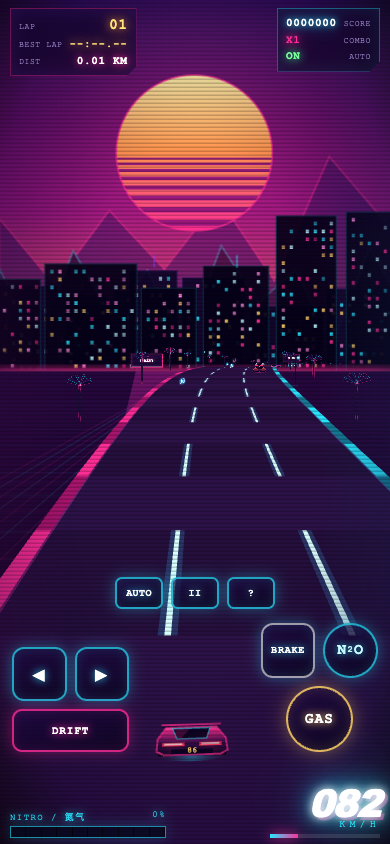
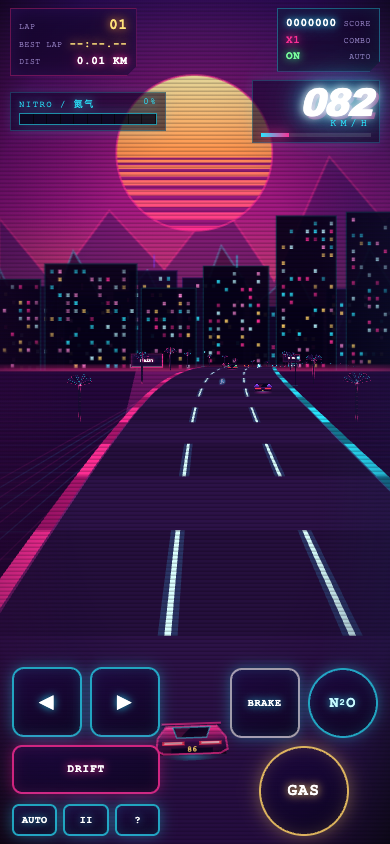
Move mobile gauges to the top and enlarge bottom-docked touch controls

diff --git a/css/style.css b/css/style.css
@@ -124,21 +124,25 @@ button{font-family:inherit;cursor:pointer}
 
 /* ---------- 触屏按钮：左右分区 + 每组两列网格，窄屏不会互相压叠 ---------- */
 #touch{position:absolute;inset:0;z-index:35;pointer-events:none;display:none;
-  --tb:clamp(46px,14vw,64px);        /* 普通键边长，随屏宽缩放 */
-  --tg:clamp(58px,17vw,82px);        /* GAS 大圆直径 */
+  --tb:clamp(58px,18vw,78px);       /* 驾驶键边长 */
+  --tg:clamp(80px,23vw,104px);      /* GAS 大圆直径 */
+  --tmini:32px;                     /* 功能键行高 */
   --tgap:8px;
-  --tdock:calc(92px + env(safe-area-inset-bottom, 0px));
+  --tpad:calc(8px + env(safe-area-inset-bottom, 0px)); /* 贴底距离 */
 }
 #cabinet.touch-on #touch{display:block}
 .touch-left,.touch-right,.touch-mini{position:absolute;pointer-events:none}
 .touch-left,.touch-right{
   display:grid;grid-template-columns:repeat(2,var(--tb));gap:var(--tgap);
-  align-items:center;justify-items:center;bottom:var(--tdock);
+  align-items:center;justify-items:center;
 }
-.touch-left{left:calc(12px + env(safe-area-inset-left, 0px))}
-.touch-right{right:calc(12px + env(safe-area-inset-right, 0px))}
-.touch-mini{left:50%;transform:translateX(-50%);top:auto;display:flex;gap:8px;
-  bottom:calc(var(--tdock) + var(--tb) + var(--tgap) + var(--tg) + 14px)}
+/* 左侧：转向 + DRIFT，下方一行是 AUTO/II/?；右侧：BRAKE/N2O + GAS 一直贴到屏幕底 */
+.touch-left{left:calc(12px + env(safe-area-inset-left, 0px));
+  bottom:calc(var(--tpad) + var(--tmini) + 10px)}
+.touch-right{right:calc(12px + env(safe-area-inset-right, 0px));bottom:var(--tpad)}
+.touch-mini{top:auto;transform:none;left:calc(12px + env(safe-area-inset-left, 0px));
+  bottom:var(--tpad);display:grid;grid-template-columns:repeat(3,1fr);gap:6px;
+  width:calc(var(--tb)*2 + var(--tgap))}
 .tbtn{
   pointer-events:auto;touch-action:none;color:#fff;font-weight:bold;font-size:13px;letter-spacing:.08em;
   border:2px solid rgba(40,231,255,.7);border-radius:12px;
@@ -152,19 +156,19 @@ button{font-family:inherit;cursor:pointer}
 .tbtn.held,.tbtn:active{transform:scale(.93);background:rgba(255,45,149,.42);
   box-shadow:0 0 22px var(--mag),inset 0 0 16px rgba(255,45,149,.5)}
 /* 触屏实际尺寸：统一按 --tb 走，跨列键例外 */
-.touch-left .tbtn,.touch-right .tbtn{width:var(--tb);height:var(--tb);font-size:12px}
-.touch-left .tbtn-sm{font-size:20px}
-.touch-left .tbtn-drift{grid-column:1/-1;width:100%;height:calc(var(--tb)*.78);
+.touch-left .tbtn,.touch-right .tbtn{width:var(--tb);height:var(--tb);font-size:13px}
+.touch-left .tbtn-sm{font-size:24px}
+.touch-left .tbtn-drift{grid-column:1/-1;width:100%;height:calc(var(--tb)*.7);
   font-size:11px;border-radius:10px;border-color:rgba(255,45,149,.8);
   box-shadow:0 0 14px rgba(255,45,149,.35),inset 0 0 12px rgba(255,45,149,.14);
   text-shadow:0 0 8px var(--mag)}
 .touch-right .tbtn-nitro{border-radius:50%;font-size:15px;color:#c9fbff}
 .touch-right .tbtn-brake{font-size:10px;border-color:rgba(255,255,255,.6)}
 .touch-right .tbtn-gas{grid-column:1/-1;width:var(--tg);height:var(--tg);
-  border-radius:50%;font-size:14px;border-color:rgba(255,209,102,.85);
+  border-radius:50%;font-size:16px;border-color:rgba(255,209,102,.85);
   box-shadow:0 0 18px rgba(255,209,102,.38),inset 0 0 14px rgba(255,209,102,.16);
   text-shadow:0 0 8px #ffd166}
-.tbtn-mini{width:48px;height:32px;font-size:10px;border-radius:7px;letter-spacing:.04em}
+.tbtn-mini{width:100%;height:var(--tmini);font-size:10px;border-radius:7px;letter-spacing:.04em}
 sub{font-size:.6em}
 
 /* ---------- 覆盖面板 ---------- */
@@ -252,8 +256,11 @@ sub{font-size:.6em}
   .start-foot{display:none}
   .combo-toast{font-size:24px}
 }
-/* 触屏 / 窄屏 / 矮屏：压缩底部 HUD，给虚拟按键让出空间 */
+/* 触屏 / 窄屏 / 矮屏：氮气条与速度表整体上移到顶部，屏幕底部整块留给驾驶按键 */
 @media (pointer:coarse), (max-width:760px), (max-height:480px){
+  #hud{padding:calc(8px + env(safe-area-inset-top, 0px))
+             calc(10px + env(safe-area-inset-right, 0px)) 8px
+             calc(10px + env(safe-area-inset-left, 0px))}
   .hud-keys,.nitro-hint{display:none}
   .speed-num{font-size:38px}
   .speed-unit{font-size:10px;margin-top:0}
@@ -261,10 +268,25 @@ sub{font-size:.6em}
   .speed-wrap{min-width:110px}
   .nitro-track{height:12px}
   .nitro-head{font-size:9px;margin-bottom:3px}
-  .hud-bottom{bottom:calc(6px + env(safe-area-inset-bottom, 0px))}
+  .hud-bottom{top:calc(80px + env(safe-area-inset-top, 0px));bottom:auto;
+    left:calc(10px + env(safe-area-inset-left, 0px));
+    right:calc(10px + env(safe-area-inset-right, 0px));align-items:center}
+  /* 仪表各自带暗底，压在城市亮窗上也读得清 */
+  .nitro-wrap,.speed-wrap{padding:4px 8px 5px;
+    background:linear-gradient(160deg,rgba(20,4,48,.66),rgba(7,2,26,.58));
+    border:1px solid rgba(40,231,255,.22);
+    box-shadow:0 0 12px rgba(40,231,255,.1)}
 }
-/* 手机横屏：按键整体缩小，避免与顶部 HUD / 速度表抢占高度 */
+/* 手机横屏：HUD 顶块更高，第二行下移；按键按比例缩小 */
 @media (max-height:480px) and (orientation:landscape){
-  #touch{--tb:48px;--tg:60px;--tgap:6px;--tdock:calc(80px + env(safe-area-inset-bottom, 0px))}
-  .tbtn-mini{width:44px;height:30px}
+  #touch{--tb:56px;--tg:70px;--tmini:28px;--tgap:6px;
+    --tpad:calc(6px + env(safe-area-inset-bottom, 0px))}
+  .tbtn-mini{font-size:9px}
+  .hud-bottom{top:calc(116px + env(safe-area-inset-top, 0px))}
+  .speed-num{font-size:30px}
+  .speed-unit{font-size:9px}
+  .nitro-wrap{width:min(36vw,220px)}
+}
+@media (max-height:480px) and (orientation:landscape) and (max-width:720px){
+  .hud-bottom{top:calc(82px + env(safe-area-inset-top, 0px))}
 }
